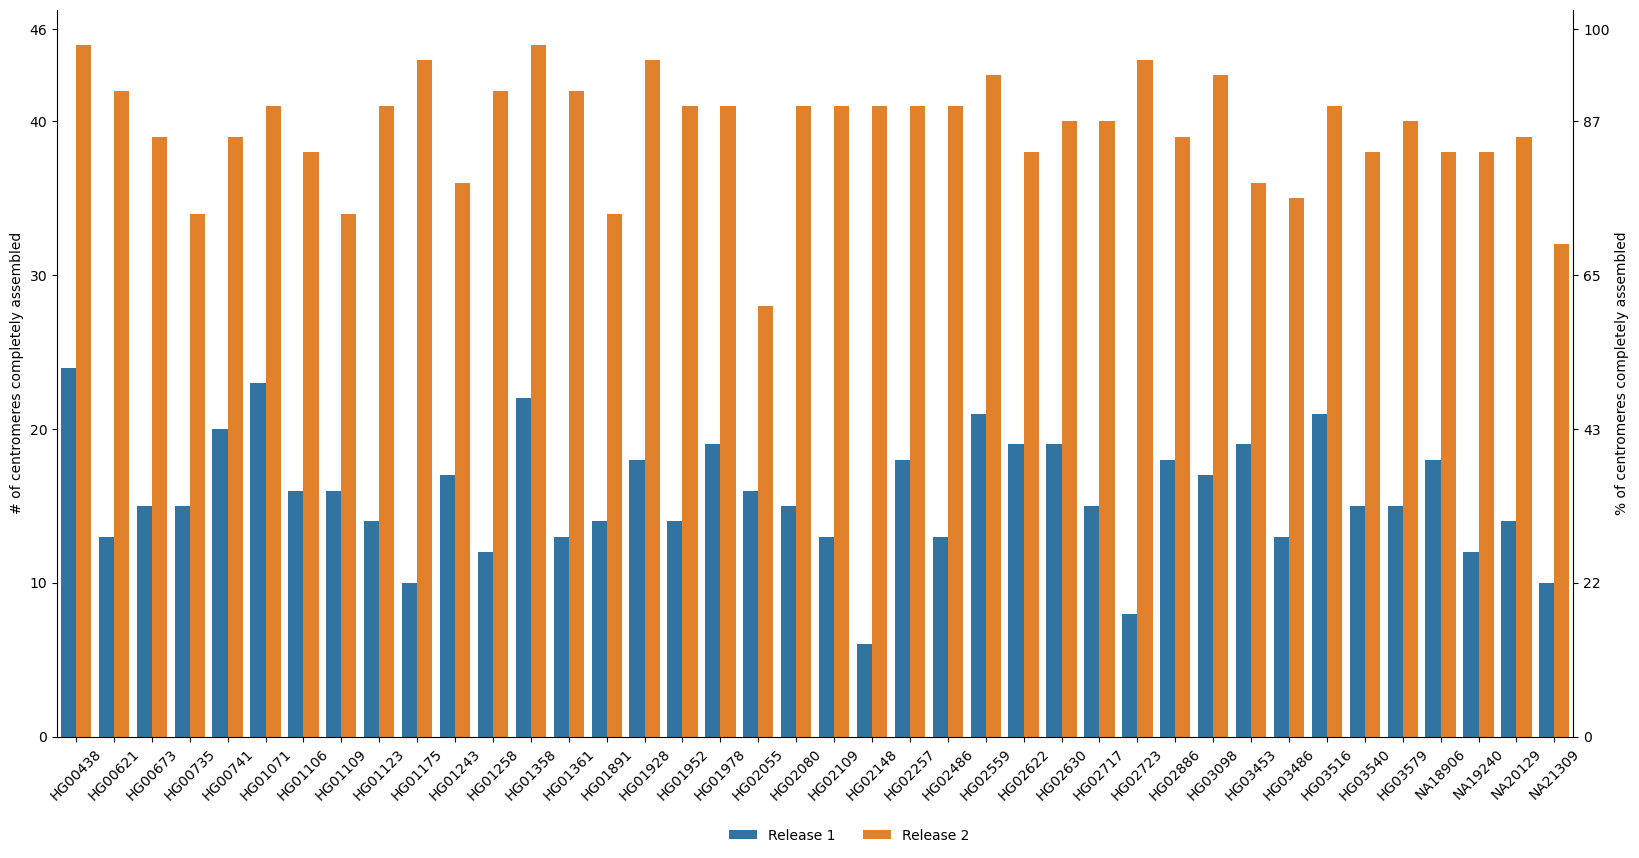
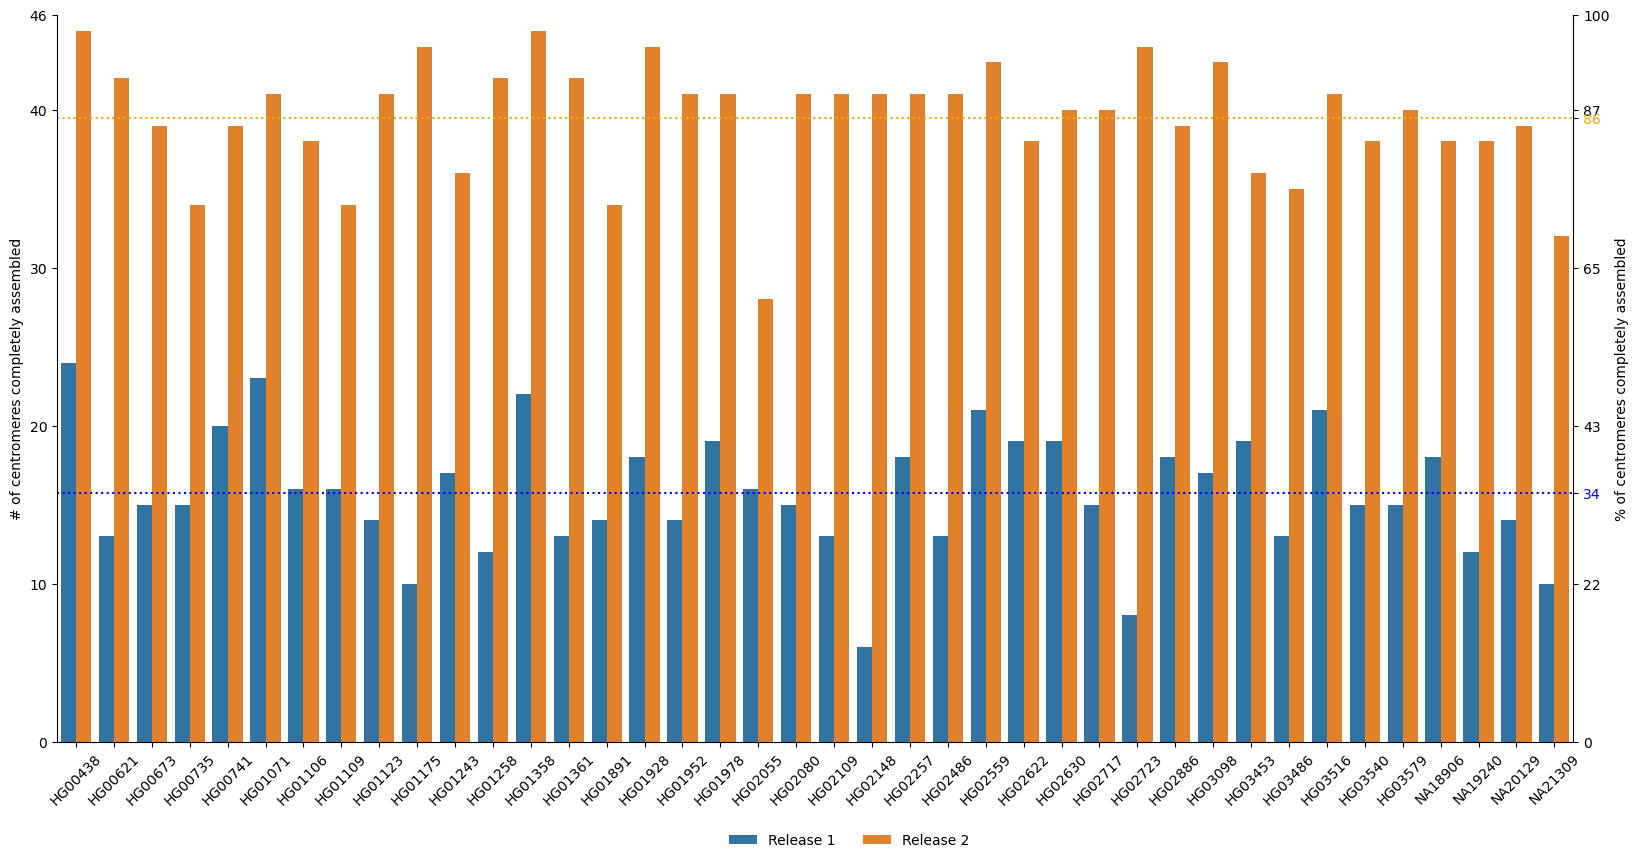
Add complete hor array length plot.

diff --git a/scripts/live_arrays/plot_hor_length.py b/scripts/live_arrays/plot_hor_length.py
@@ -6,6 +6,7 @@ import matplotlib.pyplot as plt
 from matplotlib.patches import Patch
 from matplotlib.lines import Line2D
 from collections import OrderedDict
+from typing import Callable
 
 
 DEF_COLS = ("chrom", "chrom_st", "chrom_end", "length")
@@ -43,18 +44,67 @@ DEF_CHR_COLORS = dict(
 )
 
 
+def filter_R1(df: pl.DataFrame) -> pl.DataFrame:
+    return df.filter(~(pl.col("chrom_name").str.contains("chr3"))).filter(pl.col("sample") != "HG03492")
+
+
+def filter_R2(df: pl.DataFrame) -> pl.DataFrame:
+    df = df.filter(
+        ~(
+            pl.col("contig_name").is_in(
+                [
+                    "HG00621#2#JAHBCC020000017.1:2-689335",
+                    "HG00438#2#JAHBCA020000020.1:2-703696",
+                ]
+            )
+        )
+    )
+    return df
+
+
+def read_lengths(
+    file: str,
+    rgx_name_groups: str,
+    fn_filter: Callable[[pl.DataFrame], pl.DataFrame] | None = None,
+) -> pl.DataFrame:
+    df_lengths = (
+        pl.read_csv(
+            file,
+            has_header=False,
+            separator="\t",
+            columns=[0, 1, 2, 3],
+            new_columns=DEF_COLS,
+        )
+        .with_columns(source=pl.lit("samples"))
+        .with_columns(
+            mtch_chrom=pl.col("chrom").str.extract_groups(rgx_name_groups),
+        )
+        .unnest("mtch_chrom")
+        .with_columns(pl.col("chrom_name").str.extract("(chr[0-9XY]+)"))
+    )
+    if fn_filter:
+        df_lengths = fn_filter(df_lengths)
+
+    return df_lengths
+
+
 def main():
     ap = argparse.ArgumentParser(
         description="Plot cumulative centromere HOR array lengths."
     )
     ap.add_argument(
-        "-i",
-        "--infile",
+        "-a",
+        "--infile_a",
         help="Input centromere HOR array lengths.",
-        type=argparse.FileType("rb"),
+        type=str,
     )
     ap.add_argument(
-        "-a",
+        "-b",
+        "--infile_b",
+        help="Second input centromere HOR array lengths.",
+        type=str,
+    )
+    ap.add_argument(
         "--added_inputs",
         help="Additional centromere HOR array lengths. First column should be be a subset of --chroms",
         nargs="*",
@@ -85,10 +135,12 @@ def main():
     args = ap.parse_args()
 
     # Reverse to prevent matching chr1 with both chr1 and chr11
-    rgx_chrom = "|".join([*reversed(sorted(args.chroms)), "-"])
-    rgx_name_groups = r"^.*?_(?<chrom_name>(" + rgx_chrom + r")*)_.*?$"
-    plot_all = "all" in args.chroms
-
+    chroms = args.chroms
+    chroms.extend([f"rc-{chrom}" for chrom in chroms])
+    rgx_chrom = "|".join([*chroms, "-"])
+    rgx_name_groups = (
+        r"^(?<sample>.*?)_(?<chrom_name>(" + rgx_chrom + r")*)_(?<contig_name>.*?)$"
+    )
     if args.chrom_colors:
         _chroms = set(args.chroms)
         with open(args.chrom_colors) as fh:
@@ -101,26 +153,16 @@ def main():
     else:
         chrom_colors = DEF_CHR_COLORS
 
-    if "all" not in chrom_colors:
-        chrom_colors["all"] = "#808080"
-
-    df_lengths = pl.read_csv(
-        args.infile,
-        has_header=False,
-        separator="\t",
-        columns=[0, 1, 2, 3],
-        new_columns=DEF_COLS,
-    ).with_columns(source=pl.lit("samples"))
-    if plot_all:
-        df_lengths = df_lengths.with_columns(chrom_name=pl.lit("all"))
-    else:
-        df_lengths = (
-            df_lengths.with_columns(
-                mtch_chrom=pl.col("chrom").str.extract_groups(rgx_name_groups),
-            )
-            .unnest("mtch_chrom")
-            .drop("2")
-        )
+    df_lengths = pl.concat(
+        [
+            read_lengths(
+                args.infile_a, rgx_name_groups, fn_filter=filter_R1
+            ).with_columns(release=pl.lit("Release 1")),
+            read_lengths(
+                args.infile_b, rgx_name_groups, fn_filter=filter_R2
+            ).with_columns(release=pl.lit("Release 2")),
+        ]
+    )
 
     added_palettes = OrderedDict()
     dfs_added_lengths = []
@@ -142,22 +184,15 @@ def main():
                 new_columns=DEF_COLS,
             ).with_columns(source=pl.lit(lbl))
 
-            if plot_all:
-                df = df.with_columns(chrom_name=pl.lit("all"))
-            else:
-                df = df.with_columns(
-                    chrom_name=pl.col("chrom").str.extract(f"^({rgx_chrom})$")
-                )
+            df = df.with_columns(
+                chrom_name=pl.col("chrom").str.extract(f"^({rgx_chrom})$")
+            )
 
             added_palettes[lbl] = color
             dfs_added_lengths.append(df)
 
     # Get order of chromosomes
     palettes = chrom_colors | added_palettes
-    palette_order = {
-        elem: i for i, elem in enumerate([*args.chroms, *added_palettes.keys()])
-    }
-
     df_all_lengths: pl.DataFrame = pl.concat([df_lengths, *dfs_added_lengths])
 
     # Merge asat HOR array lengths
@@ -167,6 +202,7 @@ def main():
             pl.col("chrom_st").min(),
             pl.col("chrom_end").max(),
             pl.col("length").sum(),
+            pl.col("release").first(),
         )
         ylabel = "Cumulative length of α-satellite HOR arrays (Mbp)"
     else:
@@ -182,34 +218,34 @@ def main():
         palettes.keys()
     )
     palettes = palettes | {chrom: "#FFFFFF" for chrom in uncovered_chroms}
-
+    palette_order = {p: i for i, p in enumerate(palettes.keys())}
     df_all_lengths_pd = df_all_lengths.to_pandas()
+    hue_order = ["Release 1", "Release 2"]
     sns.violinplot(
         x="chrom_name",
         y="length",
-        hue="chrom_name",
+        hue="release",
         data=df_all_lengths_pd,
-        palette=palettes,
         order=palette_order.keys(),
+        hue_order=hue_order,
         inner="quart",
     )
-    sns.swarmplot(
+    sns.stripplot(
         x="chrom_name",
         y="length",
+        hue="release",
         data=df_all_lengths_pd,
-        hue="color_key",
         linewidth=0.5,
+        dodge=True,
         edgecolor="black",
         order=palette_order.keys(),
-        palette=palettes,
+        hue_order=hue_order,
         size=4,
     )
 
     ax = plt.gca()
     legend_kwargs = dict(
-        loc="center left",
-        bbox_to_anchor=(1, 0.5),
-        title="Source",
+        loc="upper right",
         alignment="left",
         frameon=False,
     )
@@ -245,7 +281,7 @@ def main():
     ax.set_xlabel("Chromosome")
     # Remove chr from x-ticks
     xtick_labels = [lbl.get_text().replace("chr", "") for lbl in ax.get_xticklabels()]
-    ax.set_xticklabels(xtick_labels)
+    ax.set_xticks(ax.get_xticks(), xtick_labels)
 
     # Set units of y-axis
     ax.yaxis.minorticks_on()
@@ -262,15 +298,22 @@ def main():
         new_xtick_labels.append(txt)
 
     # Add line and ytick for mean length
-    mean_length = df_all_lengths["length"].mean()
-    ax.axhline(mean_length, linestyle="dotted", color="black")
-    mean_length_label = str(round(mean_length / 1_000_000, 1))
-    ax.set_yticks([*yticks, mean_length], [*new_xtick_labels, mean_length_label])
+    mean_length_r1 = df_all_lengths.filter(pl.col("release") == "Release 1")["length"].mean()
+    mean_length_r2 = df_all_lengths.filter(pl.col("release") == "Release 2")["length"].mean()
+    mean_length_r1_label = str(round(mean_length_r1 / 1_000_000, 1))
+    mean_length_r2_label = str(round(mean_length_r2 / 1_000_000, 1))
+    ax.axhline(mean_length_r1, linestyle="dotted", color="blue")
+    ax.axhline(mean_length_r2, linestyle="dotted", color="orange")
+    ax.set_yticks([*yticks, mean_length_r1, mean_length_r2], [*new_xtick_labels, mean_length_r1_label, mean_length_r2_label])
+
+    yticklabels = ax.get_yticklabels()
+    for i, color in [(-2, "blue"), (-1, "orange")]:
+        yticklabels[i].set_color(color)
 
     ax.set_ylabel(ylabel)
     ax.set_ylim(0, ymax)
 
-    plt.gcf().set_size_inches(20, 8)
+    plt.gcf().set_size_inches(30, 8)
     plt.savefig(args.output, dpi=600, bbox_inches="tight")
 
 

diff --git a/scripts/complete_counts/count_complete_cens.py b/scripts/complete_counts/count_complete_cens.py
@@ -2,10 +2,9 @@ import argparse
 
 import polars as pl
 import seaborn as sns
-import matplotlib.pyplot as plt
 
 from typing import Callable
-from matplotlib.axes import Axes
+from matplotlib.text import Text
 
 
 DEF_IN_COLS = ["ctg", "start", "end", "length"]
@@ -45,17 +44,27 @@ def get_df_counts(
 
 
 def filter_R1(df: pl.DataFrame) -> pl.DataFrame:
-    return df.filter(~(pl.col("chr") == "chr3")).filter(pl.col("sample") != "HG03492")
+    return df.filter(~(pl.col("chrom_name").str.contains("chr3"))).filter(pl.col("sample") != "HG03492")
+
 
 def filter_R2(df: pl.DataFrame) -> pl.DataFrame:
     df = df.filter(
-        ~(pl.col("contig_name").is_in([
-            "HG00621#2#JAHBCC020000017.1:2-689335",
-            "HG00438#2#JAHBCA020000020.1:2-703696"
-        ]))
+        ~(
+            pl.col("contig_name").is_in(
+                [
+                    "HG00621#2#JAHBCC020000017.1:2-689335",
+                    "HG00438#2#JAHBCA020000020.1:2-703696",
+                ]
+            )
+        )
     )
     # breakpoint()
     return df
+
+
+def perc_cens(n: int) -> str:
+    return f"{(n / DEF_N_CHR) * 100:,.0f}"
+
 
 def main():
     ap = argparse.ArgumentParser(
@@ -123,16 +132,13 @@ def main():
     # Scaffold fragments.
     # HG00621_rc-chr2_HG00621#2#JAHBCC020000017.1:2-689335
     # HG00438_chrX_HG00438#2#JAHBCA020000020.1:2-703696
-    df_b = get_df_counts(
-        args.input_b,
-        rgx_name_groups,
-        n_chroms,
-        fn_filter=filter_R2
+    df_b = get_df_counts(args.input_b, rgx_name_groups, n_chroms, fn_filter=filter_R2)
+    df_all = pl.concat(
+        [
+            df_a.with_columns(release=pl.lit("Release 1")),
+            df_b.with_columns(release=pl.lit("Release 2")),
+        ]
     )
-    df_all = pl.concat([
-        df_a.with_columns(release=pl.lit("Release 1")),
-        df_b.with_columns(release=pl.lit("Release 2")),
-    ])
 
     g = sns.catplot(
         data=df_all,
@@ -149,20 +155,34 @@ def main():
     yticks = [*range(0, 50, 10), DEF_N_CHR]
     yticklabels = [str(v) for v in yticks]
     g.ax.set_yticks(yticks, yticklabels)
+    g.ax.set_ylim(0, 46)
 
-    ax_2 =  g.ax.secondary_yaxis(location="right")
+    mean_a = df_a["len"].mean()
+    mean_b = df_b["len"].mean()
+    g.ax.axhline(mean_a, color="blue", linestyle="dotted")
+    g.ax.axhline(mean_b, color="orange", linestyle="dotted")
+
+    ax_2 = g.ax.secondary_yaxis(location="right")
     ax_2.set_yticks(
-        yticks,
-        [f"{(ytick / DEF_N_CHR) * 100:,.0f}" for ytick in yticks],
+        [*yticks, mean_a, mean_b],
+        [*[perc_cens(ytick) for ytick in yticks], perc_cens(mean_a), perc_cens(mean_b)],
     )
+    yticklabels = ax_2.get_yticklabels()
+    for i, color in [(-2, "blue"), (-1, "orange")]:
+        yticklabels[i].set_color(color)
+
     ax_2.set_ylabel(r"% of centromeres completely assembled")
 
     sns.move_legend(
         g,
         loc="lower center",
-        bbox_to_anchor=(0.5, -0.075), ncol=2, title=None, frameon=False,
+        bbox_to_anchor=(0.5, -0.075),
+        ncol=2,
+        title=None,
+        frameon=False,
     )
-    g.savefig(args.output, bbox_inches="tight")  
+    g.savefig(args.output, bbox_inches="tight")
+
 
 if __name__ == "__main__":
     raise SystemExit(main())

diff --git a/README.md b/README.md
@@ -10,6 +10,11 @@ git clone https://github.com/logsdon-lab/CenMAP \
 cd CenMAP
 ```
 
+## Run CenMAP
+```bash
+```
+> WIP
+
 ## Get NucFlag results
 ```bash
 ```
@@ -34,8 +39,13 @@ Manual changes:
 ### And accurate centromeres
 > WIP
 
-## HOR array length
-> WIP
+## HOR array length for complete centromeres
+```bash
+python exp/scripts/live_arrays/plot_hor_length.py \
+-a /project/logsdon_shared/projects/HPRC/CenMAP-R1vR2/results/R1/results/R1/final/bed/all_AS-HOR_lengths.bed \
+-b /project/logsdon_shared/projects/HPRC/CenMAP-R1vR2/results/R2/results/R2/final/bed/all_AS-HOR_lengths.bed \
+-o figures/hor_array_length_complete_centromeres.png
+```
 
 Manual changes:
-* Recalculate chr19 array length due to chimeric HOR breaking array. Reduce threshold on required number of monomers in HOR.
+* Same as [Count complete centromeres](#count-complete-centromeres)
